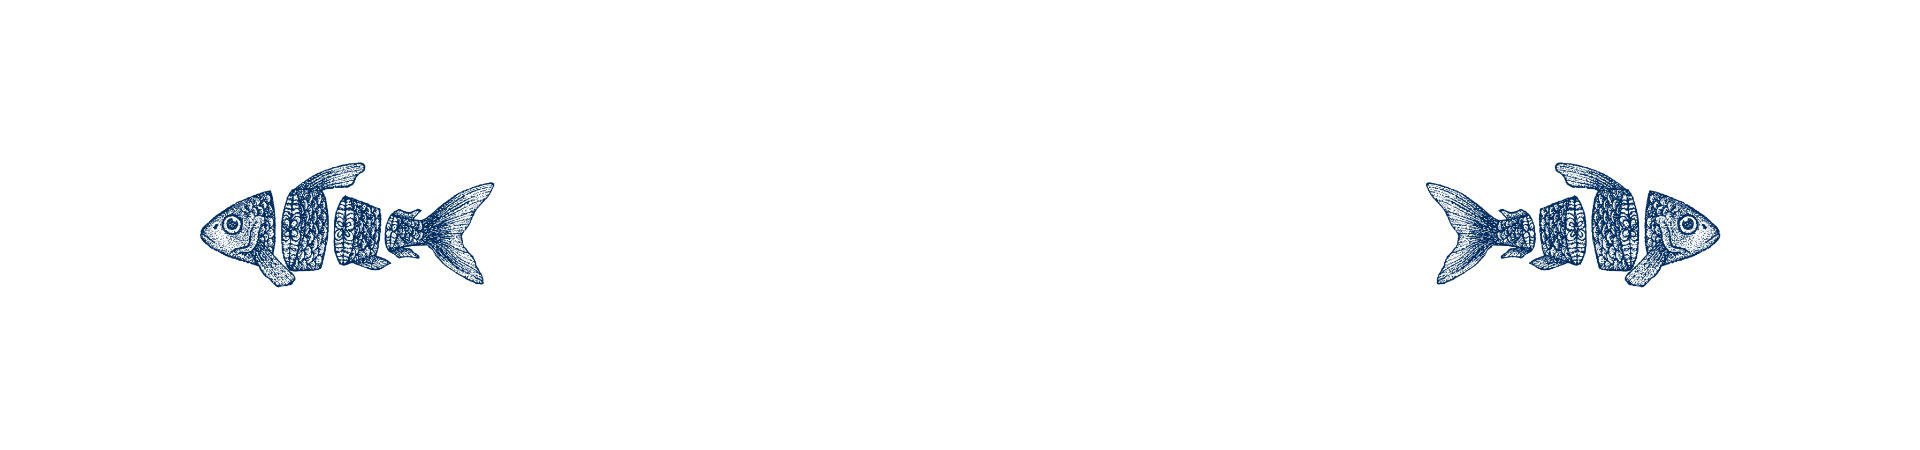
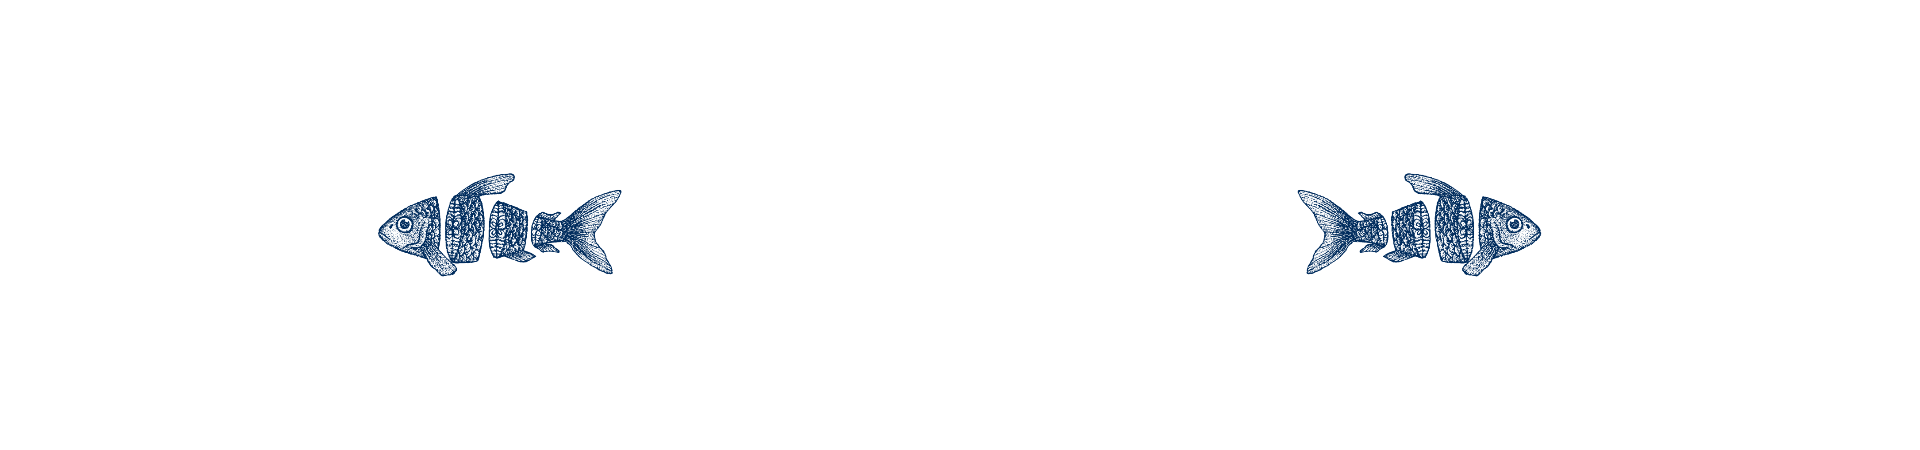
i

Changed region(s): [[0.6562, 0.3422, 0.9062, 0.6533], [0.0938, 0.3422, 0.3438, 0.6533]]

diff --git a/src/components/MenuPage.tsx b/src/components/MenuPage.tsx
@@ -14,13 +14,12 @@ export function MenuPage({ locale }: { locale: Locale }) {
   const isPt = locale === "pt";
   const title = isPt ? "A nossa ementa" : "Our menu";
   const subtitle = isPt ? "Cozinha portuguesa guiada pela costa, pelo mercado e pelo prazer de bem receber." : "Portuguese cooking guided by the coast, the market and generous hospitality.";
-  const availability = isPt ? "Peixe e marisco variam com a lota e a disponibilidade do dia. Confirme connosco as sugestões e os respetivos preços." : "Fish and seafood vary with the daily catch and availability. Please ask us about the day's suggestions and prices.";
   return (
     <main className="menu-page">
       <SiteHeader locale={locale} nav={t.nav} reserve={t.reserve} />
       <section className="menu-hero section-shell"><p className="eyebrow">Faina Restaurante</p><h1>{title}</h1><p className="lead">{subtitle}</p><p className="menu-service">{isPt ? "Almoços · Jantares · Grupos" : "Lunch · Dinner · Groups"}</p></section>
       <nav className="menu-nav" aria-label={isPt ? "Categorias da ementa" : "Menu categories"}><div className="section-shell">{menuCategories.map((category) => <a key={category.id} href={`#${category.id}`}>{category.title[locale]}</a>)}</div></nav>
-      <aside className="menu-availability section-shell" aria-label={isPt ? "Disponibilidade" : "Availability"}><p>{availability}</p><a className="button button--ink" href={business.reservationUrl} target="_blank" rel="noreferrer">{t.reserve}</a></aside>
+      <aside className="menu-availability section-shell" aria-label={isPt ? "Disponibilidade" : "Availability"}><p>{isPt ? <>Peixe e marisco variam com a lota e a disponibilidade do dia.<br />Confirme connosco as sugestões e os respetivos preços.</> : <>Fish and seafood vary with the daily catch and availability.<br />Please ask us about the day&apos;s suggestions and prices.</>}</p><a className="button button--ink" href={business.reservationUrl} target="_blank" rel="noreferrer">{t.reserve}</a></aside>
       <section className="menu-categories">
         {menuCategories.map((category) => <section id={category.id} className="menu-category" key={category.id}><div className="section-shell menu-category__inner"><header><div><p className="eyebrow">{isPt ? "Faina à mesa" : "Faina at the table"}</p><h2>{category.title[locale]}</h2><p>{category.intro[locale]}</p>{category.availability && <small>{category.availability[locale]}</small>}</div></header><ul>{category.items.map((item) => <li key={item.name.pt}><span>{item.name[locale]}</span><strong>{item.price}</strong></li>)}</ul></div></section>)}
       </section>
